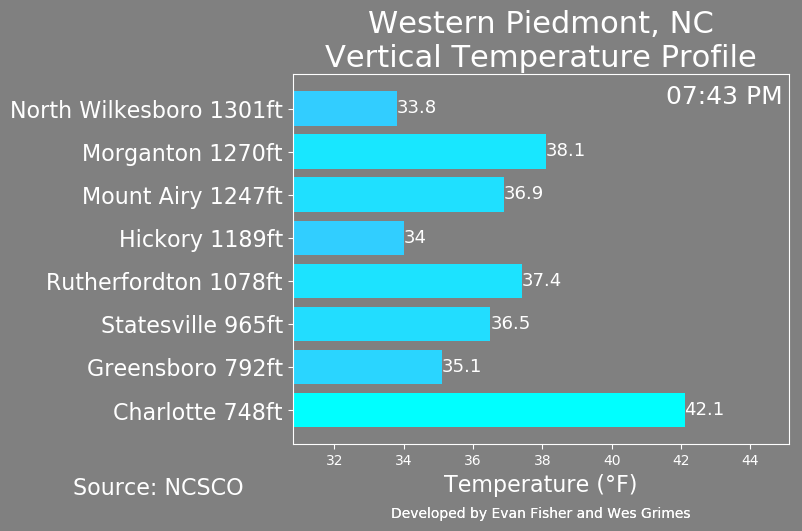
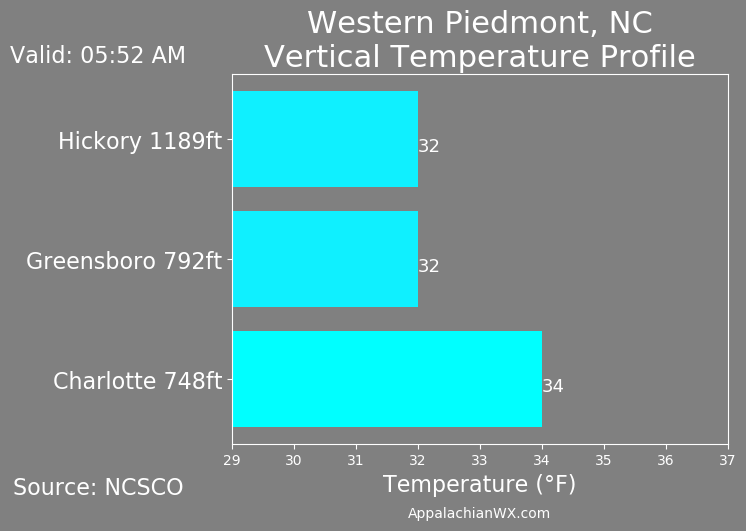
Small python and html changes

diff --git a/output/index.html b/output/index.html
@@ -18,7 +18,7 @@ body {margin:0%}
 #header3 {
 	text-align:center;
 	font-family:Candara;
-	color:white;
+	color:black;
 	font-size:250%;
 	margin-top:0%;
 }
@@ -28,6 +28,14 @@ body {margin:0%}
 	color:black;
 	font-size:150%;
 	padding-bottom:3%;
+}
+#p2 {
+	text-align:center;
+	font-family:Candara;
+	color:black;
+	font-size:100%;
+	padding-left:5%;
+	padding-right:5%;
 }
 #divcenter {
 	width:47%;
@@ -97,6 +105,9 @@ li a:hover:not(.active) {
 	</ul>
 	<br /><br /><br /><br />
 	<p id="header3">Temperature Plots</p>
+	<p id="p2">*Stations with obs > 1 hour old are excluded*</p>
+	<p id="p2">The number of stations in each plot may dwindle through the morning as ice accumulates</p>
+	<br /><br />
 	<div>
 		<img src="wncbarplot.png"/>
 	</div>

diff --git a/output/about.html b/output/about.html
@@ -18,7 +18,7 @@ body {margin:0%}
 #header3 {
 	text-align:center;
 	font-family:Candara;
-	color:white;
+	color:black;
 	font-size:250%;
 	margin-top:0%;
 }

diff --git a/output/wind.html b/output/wind.html
@@ -18,7 +18,7 @@ body {margin:0%}
 #header3 {
 	text-align:center;
 	font-family:Candara;
-	color:white;
+	color:black;
 	font-size:250%;
 	margin-top:0%;
 }

diff --git a/temp_plot.py b/temp_plot.py
@@ -329,9 +329,10 @@ def wncbar():
 
     now = datetime.now()
     current_time = now.strftime("%I:%M %p")
-    plt.text(0.87,0.94,current_time,color='white',size=18,horizontalalignment='center',verticalalignment='center',transform = ax.transAxes)
+    #plt.text(0.87,0.94,current_time,color='white',size=18,horizontalalignment='center',verticalalignment='center',transform = ax.transAxes)
     plt.text(-0.27,-0.12,"Source: NCSCO",color='white',size=16,horizontalalignment='center',verticalalignment='center',transform = ax.transAxes)
-    plt.figtext(0.5,-0.2,"Developed by Evan Fisher and Wes Grimes",color='white',size=10,horizontalalignment='center',transform = ax.transAxes)
+    plt.text(-0.27,1.05,"Valid: " + current_time,color='white',size=16,horizontalalignment='center',verticalalignment='center',transform = ax.transAxes)
+    plt.figtext(0.5,-0.2,"AppalachianWX.com",color='white',size=10,horizontalalignment='center',transform = ax.transAxes)
     #show/save graphic
     plt.savefig("output/wncbarplot.png",bbox_inches='tight', facecolor=fig.get_facecolor())
     #plt.show()
@@ -715,10 +716,10 @@ def piedmontbar():
 
     now = datetime.now()
     current_time = now.strftime("%I:%M %p")
-    plt.text(0.87,0.94,current_time,color='white',size=18,horizontalalignment='center',verticalalignment='center',transform = ax.transAxes)
+    #plt.text(0.87,0.94,current_time,color='white',size=18,horizontalalignment='center',verticalalignment='center',transform = ax.transAxes)
     plt.text(-0.27,-0.12,"Source: NCSCO",color='white',size=16,horizontalalignment='center',verticalalignment='center',transform = ax.transAxes)
-    plt.figtext(0.5,-0.2,"Developed by Evan Fisher and Wes Grimes",color='white',size=10,horizontalalignment='center',transform = ax.transAxes)
-    plt.figtext(0.5,-0.2,"Developed by Evan Fisher and Wes Grimes",color='white',size=10,horizontalalignment='center',transform = ax.transAxes)
+    plt.text(-0.27,1.05,"Valid: " + current_time,color='white',size=16,horizontalalignment='center',verticalalignment='center',transform = ax.transAxes)
+    plt.figtext(0.5,-0.2,"AppalachianWX.com",color='white',size=10,horizontalalignment='center',transform = ax.transAxes)
     #show/save graphic
     plt.savefig("output/piedmontbarplot.png",bbox_inches='tight', facecolor=fig.get_facecolor())
     #plt.show()
@@ -945,10 +946,9 @@ def vabar():
 
     now = datetime.now()
     current_time = now.strftime("%I:%M %p")
-    plt.text(0.87,0.94,current_time,color='white',size=18,horizontalalignment='center',verticalalignment='center',transform = ax.transAxes)
+    plt.text(-0.27,1.05,"Valid: " + current_time,color='white',size=16,horizontalalignment='center',verticalalignment='center',transform = ax.transAxes)
     plt.text(-0.27,-0.12,"Source: NCSCO",color='white',size=16,horizontalalignment='center',verticalalignment='center',transform = ax.transAxes)
-    plt.figtext(0.5,-0.2,"Developed by Evan Fisher and Wes Grimes",color='white',size=10,horizontalalignment='center',transform = ax.transAxes)
-    plt.figtext(0.5,-0.2,"Developed by Evan Fisher and Wes Grimes",color='white',size=10,horizontalalignment='center',transform = ax.transAxes)
+    plt.figtext(0.5,-0.2,"AppalachianWX.com",color='white',size=10,horizontalalignment='center',transform = ax.transAxes)
     #show/save graphic
     plt.savefig("output/vabarplot.png",bbox_inches='tight', facecolor=fig.get_facecolor())
     #plt.show()

diff --git a/test_file.py b/test_file.py
@@ -1,3 +1,15 @@
+import numpy as np
+import math
+import shapefile
+import urllib.request
+import matplotlib.pyplot as plt
+import matplotlib.patheffects as pe
+from matplotlib.patches import PathPatch
+from matplotlib.collections import LineCollection
+from matplotlib import cm
+from bs4 import BeautifulSoup
+from datetime import datetime
+
 def vabar():
 
     names = ('Charlottesville 641ft','Lynchburg 938ft','Roanoke 1175ft','Waynesboro 1436ft','Blacksburg 2132ft','Hillsville 2693ft')
@@ -217,9 +229,9 @@ def vabar():
 
     now = datetime.now()
     current_time = now.strftime("%I:%M %p")
-    plt.text(0.87,0.94,current_time,color='white',size=18,horizontalalignment='center',verticalalignment='center',transform = ax.transAxes)
+    #plt.text(0.87,0.94,current_time,color='white',size=18,horizontalalignment='center',verticalalignment='center',transform = ax.transAxes)
     plt.text(-0.27,-0.12,"Source: NCSCO",color='white',size=16,horizontalalignment='center',verticalalignment='center',transform = ax.transAxes)
-    plt.figtext(0.5,-0.2,"Developed by Evan Fisher and Wes Grimes",color='white',size=10,horizontalalignment='center',transform = ax.transAxes)
+    plt.text(-0.27,1.05,"Valid: " + current_time,color='white',size=16,horizontalalignment='center',verticalalignment='center',transform = ax.transAxes)
     plt.figtext(0.5,-0.2,"Developed by Evan Fisher and Wes Grimes",color='white',size=10,horizontalalignment='center',transform = ax.transAxes)
     #show/save graphic
     plt.savefig("output/vabarplot.png",bbox_inches='tight', facecolor=fig.get_facecolor())
